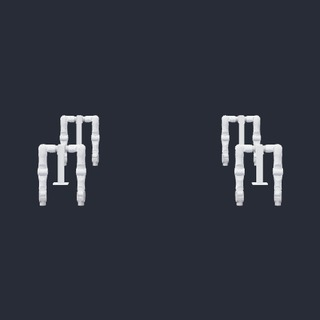
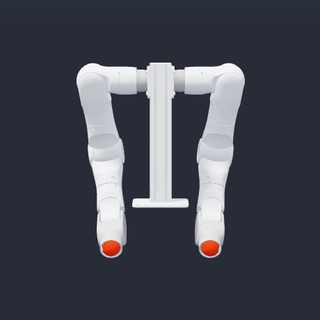
Refocus A1 example on bimanual IK

Changed region(s): [[0.0938, 0.1875, 0.9062, 0.8125]]

diff --git a/newton/examples/robot/example_robot_a1.py b/newton/examples/robot/example_robot_a1.py
@@ -1,18 +1,13 @@
 # SPDX-FileCopyrightText: Copyright (c) 2026 The Newton Developers
 # SPDX-License-Identifier: Apache-2.0
 
-###########################################################################
-# Example Robot A1
-#
-# Shows how to load and position-control the OneRobotics A1 left arm,
-# right arm, or bimanual stand from structured USD assets.
-#
-# Command: python -m newton.examples robot_a1 --model bimanual
-#          python -m newton.examples robot_a1 --model left
-#          python -m newton.examples robot_a1 --model right
-#          python -m newton.examples robot_a1 --demo wave
-#
-###########################################################################
+"""Solve a coordinated dual-arm reach task on the OneRobotics A1 stand.
+
+One :class:`newton.ik.IKSolver` solves position objectives for both terminal
+links simultaneously while a joint-limit objective keeps the solution valid.
+
+Command: python -m newton.examples robot_a1
+"""
 
 from pathlib import Path
 
@@ -21,121 +16,97 @@ import warp as wp
 
 import newton
 import newton.examples
+import newton.ik as ik
 import newton.utils
-from newton import JointTargetMode
 
-A1_ASSET_PATHS = {
-    "left": Path("usd/a1_left/onerobotics_a1_left.usda"),
-    "right": Path("usd/a1_right/onerobotics_a1_right.usda"),
-    "bimanual": Path("usd/a1_bimanual_stand/onerobotics_a1_bimanual_stand.usda"),
-}
-A1_DEMOS = ("hold", "joint_sine", "wave")
+A1_ASSET_PATH = Path("usd/a1_bimanual_stand/onerobotics_a1_bimanual_stand.usda")
+TERMINAL_LINKS = ("Link_l7", "Link_r7")
+TARGET_OFFSETS = np.array([[0.15, -0.06, 0.12], [0.15, 0.06, 0.12]], dtype=np.float32)
 
 
-@wp.kernel
-def update_a1_joint_targets(
-    base_targets: wp.array[wp.float32],
-    amplitudes: wp.array[wp.float32],
-    phases: wp.array[wp.float32],
-    motion_time: wp.array[wp.float32],
-    angular_frequency: wp.float32,
-    joint_targets: wp.array[wp.float32],
-):
-    """Update A1 position targets with smooth sinusoidal offsets."""
-    dof = wp.tid()
-    phase = phases[dof]
-    offset = amplitudes[dof] * (wp.sin(angular_frequency * motion_time[0] + phase) - wp.sin(phase))
-    joint_targets[dof] = base_targets[dof] + offset
+def _find_unique_bodies(builder: newton.ModelBuilder, labels: tuple[str, ...]) -> list[int]:
+    """Resolve unique body indices from the final segments of USD paths."""
+    bodies_by_label: dict[str, int] = {}
+    for index, full_label in enumerate(builder.body_label):
+        short_label = full_label.rsplit("/", 1)[-1]
+        if short_label not in labels:
+            continue
+        if short_label in bodies_by_label:
+            raise ValueError(f"A1 body label is not unique: {short_label}")
+        bodies_by_label[short_label] = index
 
-
-@wp.kernel
-def advance_a1_motion_time(motion_time: wp.array[wp.float32], dt: wp.float32):
-    """Advance the device-side trajectory clock."""
-    motion_time[0] = motion_time[0] + dt
+    missing = set(labels) - bodies_by_label.keys()
+    if missing:
+        raise ValueError(f"A1 terminal links are missing: {sorted(missing)}")
+    return [bodies_by_label[label] for label in labels]
 
 
 class Example:
+    """Coordinate both A1 arms with a single inverse-kinematics problem."""
+
     def __init__(self, viewer, args):
-        """Initialize the selected A1 model, solver, state, and viewer."""
+        """Load the bimanual A1 stand and configure its paired reach objectives."""
         self.fps = 60
         self.frame_dt = 1.0 / self.fps
-        self.sim_substeps = 4
-        self.sim_dt = self.frame_dt / self.sim_substeps
         self.sim_time = 0.0
-        self.world_count = args.world_count
-        self.demo = args.demo
         self.viewer = viewer
         self.device = wp.get_device()
 
-        a1 = newton.ModelBuilder()
-        newton.solvers.SolverMuJoCo.register_custom_attributes(a1)
-        a1.default_joint_cfg = newton.ModelBuilder.JointDofConfig(limit_ke=1.0e3, limit_kd=1.0e1)
-
         asset_root = newton.utils.download_asset("onerobotics_a1")
-        a1.add_usd(
-            str(asset_root / A1_ASSET_PATHS[args.model]),
+        builder = newton.ModelBuilder()
+        builder.add_usd(
+            str(asset_root / A1_ASSET_PATH),
             collapse_fixed_joints=False,
             enable_self_collisions=False,
             hide_collision_shapes=True,
             skip_mesh_approximation=True,
         )
-
-        for dof_id in range(a1.joint_dof_count):
-            a1.joint_target_ke[dof_id] = 500.0
-            a1.joint_target_kd[dof_id] = 25.0
-            a1.joint_target_mode[dof_id] = int(JointTargetMode.POSITION)
-            a1.joint_target_q[dof_id] = a1.joint_q[dof_id]
-
-        builder = newton.ModelBuilder()
-        builder.replicate(a1, self.world_count)
-
-        base_targets = np.asarray(builder.joint_target_q, dtype=np.float32)
-        amplitudes = np.zeros_like(base_targets)
-        phases = np.zeros_like(base_targets)
-        dofs_per_world = a1.joint_dof_count
-
-        if self.demo == "joint_sine":
-            local_amplitudes = np.full(dofs_per_world, 0.15, dtype=np.float32)
-            local_phases = np.linspace(0.0, np.pi, dofs_per_world, endpoint=False, dtype=np.float32)
-            amplitudes[:] = np.tile(local_amplitudes, self.world_count)
-            phases[:] = np.tile(local_phases, self.world_count)
-        elif self.demo == "wave":
-            local_amplitudes = np.zeros(dofs_per_world, dtype=np.float32)
-            local_phases = np.zeros(dofs_per_world, dtype=np.float32)
-            for arm_start in range(0, dofs_per_world, 7):
-                arm_dofs = min(7, dofs_per_world - arm_start)
-                wave_dofs = min(3, arm_dofs)
-                start = arm_start + arm_dofs - wave_dofs
-                direction = 1.0 if (arm_start // 7) % 2 == 0 else -1.0
-                local_amplitudes[start : start + wave_dofs] = (
-                    direction * np.array([0.20, 0.30, 0.40], dtype=np.float32)[-wave_dofs:]
-                )
-                local_phases[start : start + wave_dofs] = np.linspace(0.0, np.pi / 2.0, wave_dofs, dtype=np.float32)
-            amplitudes[:] = np.tile(local_amplitudes, self.world_count)
-            phases[:] = np.tile(local_phases, self.world_count)
+        self.terminal_bodies = _find_unique_bodies(builder, TERMINAL_LINKS)
 
         self.model = builder.finalize()
+        self.state = self.model.state()
+        newton.eval_fk(self.model, self.model.joint_q, self.model.joint_qd, self.state)
 
-        self.state_0 = self.model.state()
-        self.state_1 = self.model.state()
-        self.control = self.model.control()
-        self.base_targets = wp.array(base_targets, dtype=wp.float32, device=self.device)
-        self.motion_amplitudes = wp.array(amplitudes, dtype=wp.float32, device=self.device)
-        self.motion_phases = wp.array(phases, dtype=wp.float32, device=self.device)
-        self.motion_time = wp.zeros(1, dtype=wp.float32, device=self.device)
-        self.angular_frequency = 0.8
-        self.contacts = None
-        newton.eval_fk(self.model, self.model.joint_q, self.model.joint_qd, self.state_0)
+        initial_body_q = self.state.body_q.numpy()
+        self.initial_joint_q = self.model.joint_q.numpy().copy()
+        self.target_positions = (
+            np.asarray([initial_body_q[body, :3] for body in self.terminal_bodies], dtype=np.float32) + TARGET_OFFSETS
+        )
+        self.target_points = wp.array(self.target_positions, dtype=wp.vec3, device=self.device)
+        self.target_colors = wp.array(
+            np.tile(np.array([0.95, 0.25, 0.10], dtype=np.float32), (len(self.terminal_bodies), 1)),
+            dtype=wp.vec3,
+            device=self.device,
+        )
 
-        self.solver = newton.solvers.SolverMuJoCo(self.model, disable_contacts=True)
+        self.position_objectives = [
+            ik.IKObjectivePosition(
+                link_index=body,
+                link_offset=wp.vec3(0.0, 0.0, 0.0),
+                target_positions=wp.array([wp.vec3(*target)], dtype=wp.vec3, device=self.device),
+            )
+            for body, target in zip(self.terminal_bodies, self.target_positions, strict=True)
+        ]
+        joint_limit_objective = ik.IKObjectiveJointLimit(
+            joint_limit_lower=self.model.joint_limit_lower,
+            joint_limit_upper=self.model.joint_limit_upper,
+            weight=10.0,
+        )
+        self.joint_q = self.model.joint_q.reshape((1, self.model.joint_coord_count))
+        self.solver = ik.IKSolver(
+            model=self.model,
+            n_problems=1,
+            objectives=[*self.position_objectives, joint_limit_objective],
+            lambda_initial=0.1,
+            jacobian_mode=ik.IKJacobianType.ANALYTIC,
+        )
 
         self.viewer.set_model(self.model)
-        self.viewer.set_world_offsets((2.0, 2.0, 0.0))
-
+        self.viewer.set_camera(pos=wp.vec3(2.5, 0.0, 0.5), pitch=-5.0, yaw=180.0)
         self.capture()
 
     def capture(self):
-        """Capture one simulation step as a Warp graph when supported."""
+        """Capture the IK solve as a Warp graph when CUDA supports it."""
         if wp.get_device().is_cuda and not wp.config.verify_cuda:
             with wp.ScopedCapture() as capture:
                 self.simulate()
@@ -144,35 +115,12 @@ class Example:
             self.graph = None
 
     def simulate(self):
-        """Advance the A1 simulation by one frame using fixed substeps."""
-        for _ in range(self.sim_substeps):
-            self.state_0.clear_forces()
-            self.viewer.apply_forces(self.state_0)
-            if self.demo != "hold":
-                wp.launch(
-                    update_a1_joint_targets,
-                    dim=self.model.joint_dof_count,
-                    inputs=[
-                        self.base_targets,
-                        self.motion_amplitudes,
-                        self.motion_phases,
-                        self.motion_time,
-                        self.angular_frequency,
-                    ],
-                    outputs=[self.control.joint_target_q],
-                    device=self.device,
-                )
-                wp.launch(
-                    advance_a1_motion_time,
-                    dim=1,
-                    inputs=[self.motion_time, self.sim_dt],
-                    device=self.device,
-                )
-            self.solver.step(self.state_0, self.state_1, self.control, self.contacts, self.sim_dt)
-            self.state_0, self.state_1 = self.state_1, self.state_0
+        """Solve both terminal-link position objectives and update forward kinematics."""
+        self.solver.step(self.joint_q, self.joint_q, iterations=24)
+        newton.eval_fk(self.model, self.model.joint_q, self.model.joint_qd, self.state)
 
     def step(self):
-        """Advance the simulation and update the elapsed simulation time."""
+        """Advance the paired IK task by one presentation frame."""
         if self.graph:
             wp.capture_launch(self.graph)
         else:
@@ -180,36 +128,39 @@ class Example:
         self.sim_time += self.frame_dt
 
     def render(self):
-        """Render the current A1 state in the configured viewer."""
+        """Render the solved arms and their two position targets."""
         self.viewer.begin_frame(self.sim_time)
-        self.viewer.log_state(self.state_0)
+        self.viewer.log_state(self.state)
+        self.viewer.log_points(
+            "a1_reach_targets",
+            self.target_points,
+            radii=0.025,
+            colors=self.target_colors,
+        )
         self.viewer.end_frame()
 
     def test_final(self):
-        """Verify the selected A1 model remains finite and its requested motion runs."""
-        joint_q = self.state_0.joint_q.numpy()
-        joint_qd = self.state_0.joint_qd.numpy()
-        if not np.isfinite(joint_q).all() or not np.isfinite(joint_qd).all():
-            raise ValueError("A1 joint state contains non-finite values")
-        if self.demo != "hold":
-            joint_targets = self.control.joint_target_q.numpy()
-            base_targets = self.base_targets.numpy()
-            if np.allclose(joint_targets, base_targets):
-                raise ValueError(f"A1 {self.demo} demo did not update any joint targets")
+        """Verify both terminal links reach their targets and the joints actually move."""
+        joint_q = self.model.joint_q.numpy()
+        if not np.isfinite(joint_q).all():
+            raise ValueError("A1 joint coordinates contain non-finite values")
+        if np.max(np.abs(joint_q - self.initial_joint_q)) < 0.05:
+            raise ValueError("A1 inverse kinematics did not move either arm")
+
+        newton.eval_fk(self.model, self.model.joint_q, self.model.joint_qd, self.state)
+        body_q = self.state.body_q.numpy()
+        actual_positions = np.asarray([body_q[body, :3] for body in self.terminal_bodies])
+        position_errors = np.linalg.norm(actual_positions - self.target_positions, axis=1)
+        if np.max(position_errors) > 1.0e-3:
+            raise ValueError(f"A1 terminal-link position errors are {position_errors} m")
 
     @staticmethod
     def create_parser():
-        """Create the command-line parser for selecting the A1 configuration."""
-        parser = newton.examples.create_parser()
-        newton.examples.add_world_count_arg(parser)
-        parser.add_argument("--model", choices=A1_ASSET_PATHS, default="bimanual")
-        parser.add_argument("--demo", choices=A1_DEMOS, default="joint_sine")
-        parser.set_defaults(world_count=4)
-        return parser
+        """Create the common Newton example parser."""
+        return newton.examples.create_parser()
 
 
 if __name__ == "__main__":
     parser = Example.create_parser()
     viewer, args = newton.examples.init(parser)
-
     newton.examples.run(Example(viewer, args), args)

diff --git a/newton/tests/test_examples.py b/newton/tests/test_examples.py
@@ -995,10 +995,9 @@ add_example_test(
     TestRobotExamples,
     name="robot.example_robot_a1",
     devices=test_devices,
-    test_options={"usd_required": True, "num-frames": 100, "model": "bimanual", "demo": "wave"},
+    test_options={"usd_required": True, "num-frames": 10},
     test_options_cpu={"num-frames": 10},
     use_viewer=True,
-    test_suffix="bimanual",
 )
 add_example_test(
     TestRobotExamples,

diff --git a/changelog/+onerobotics-a1-7c4e2d91.added.md b/changelog/+onerobotics-a1-7c4e2d91.added.md
@@ -1,1 +1,1 @@
-Add OneRobotics A1 arm examples and an X1 mobile-manipulator example that coordinates the wheeled base, lift, and dual arms in a staged pre-grasp task. The current X1 asset does not include grippers.
+Add a OneRobotics A1 coordinated dual-arm inverse-kinematics example and an X1 mobile-manipulator example that coordinates the wheeled base, lift, and dual arms in a staged pre-grasp task. The current X1 asset does not include grippers.

diff --git a/README.md b/README.md
@@ -290,8 +290,7 @@ If you run the examples from a source checkout with uv, use
       <code>python -m newton.examples robot_asroballet</code>
     </td>
     <td align="center" width="33%">
-      <code>python -m newton.examples robot_a1 --demo joint_sine</code><br>
-      <code>python -m newton.examples robot_a1 --demo wave</code>
+      <code>python -m newton.examples robot_a1</code>
     </td>
   </tr>
   <tr>
